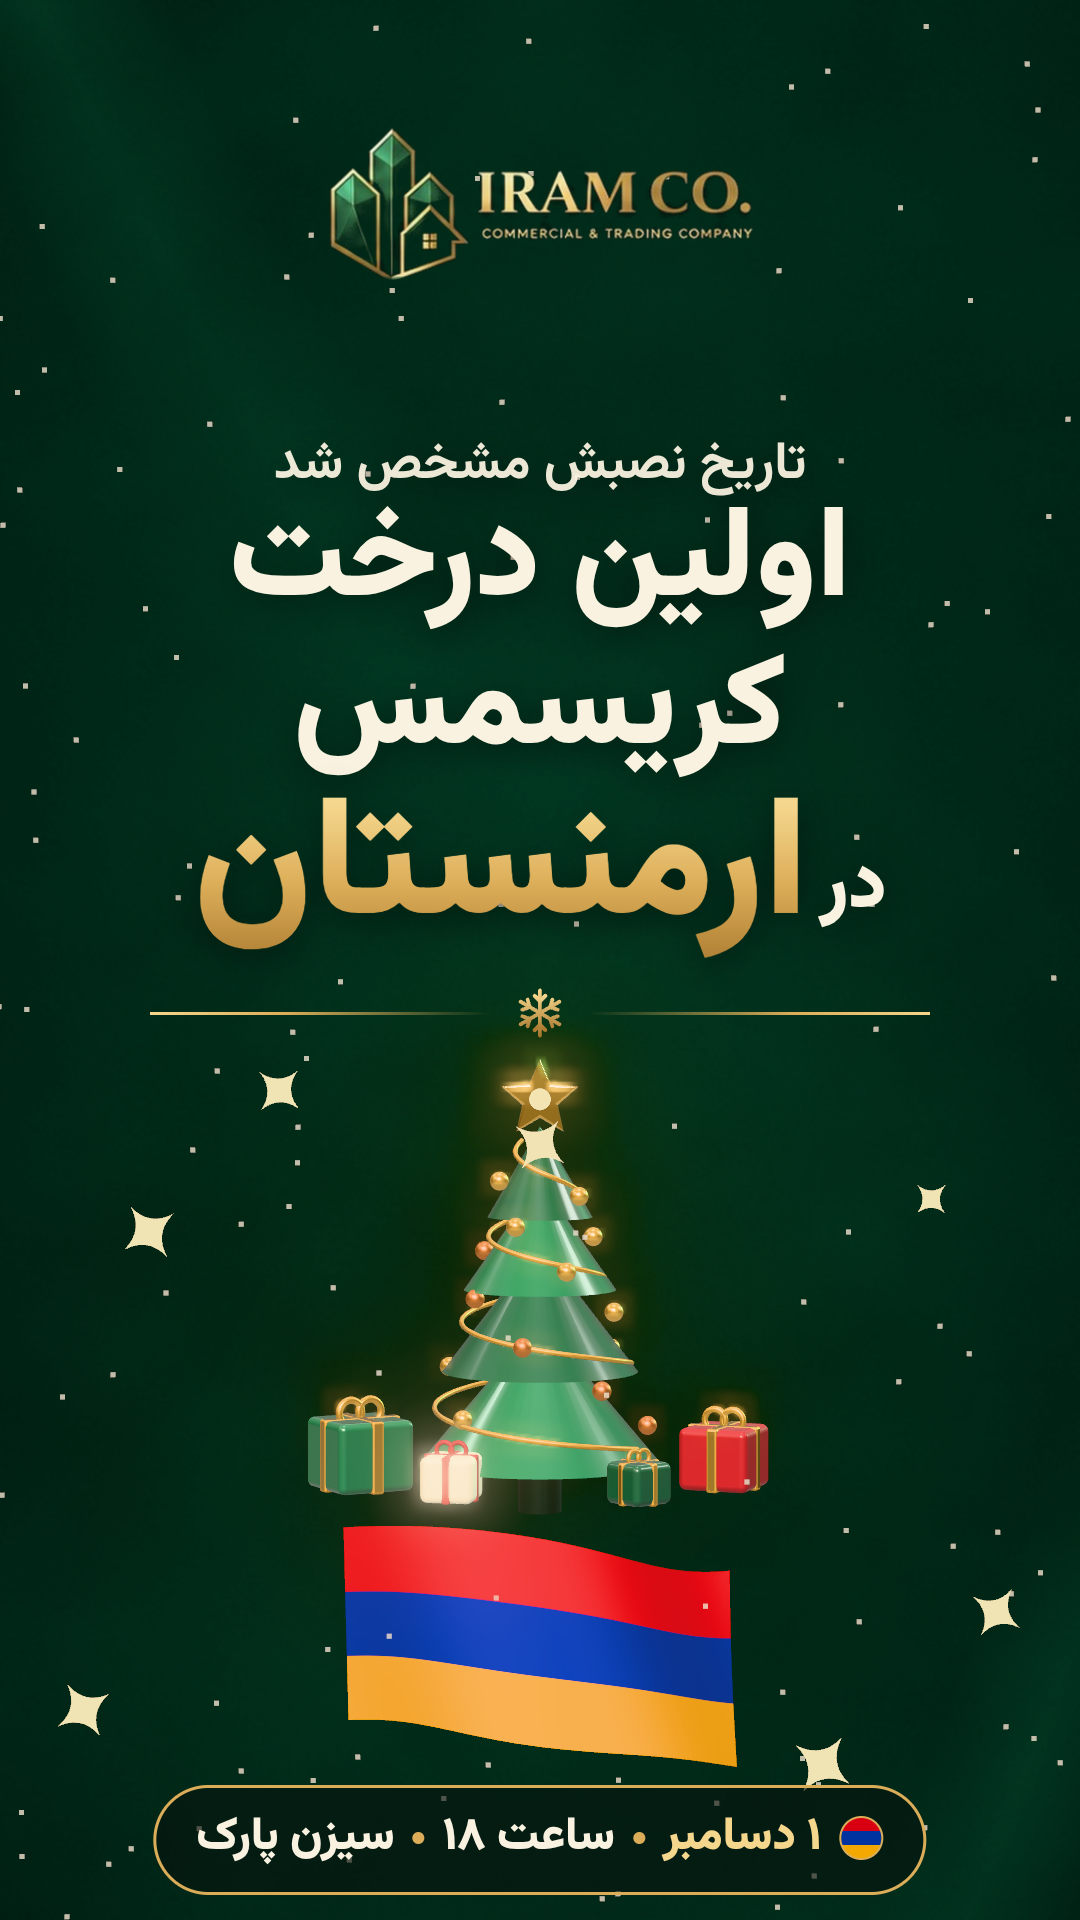
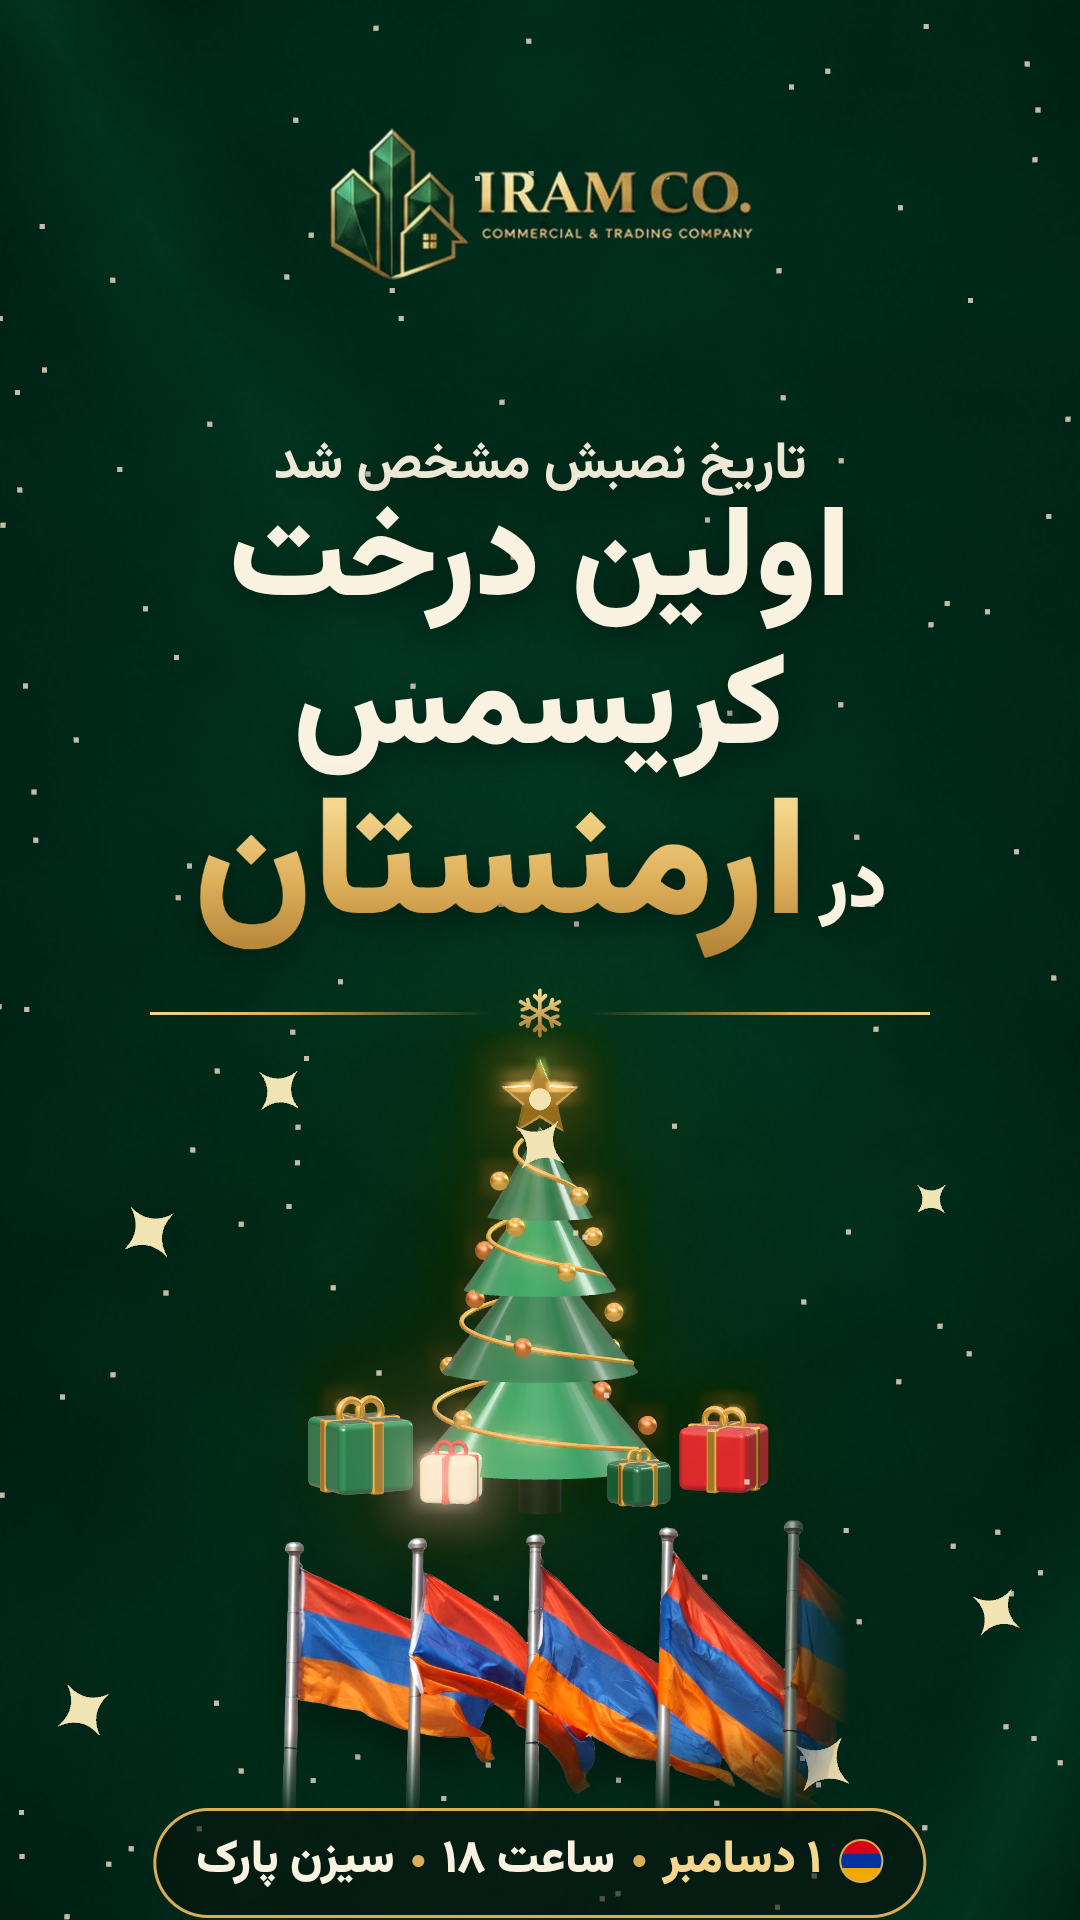
Cover: real waving Armenian flags instead of the hand-built one
Flags photo by young shanahan (Flickr, CC BY 2.0), cut out from the sky
with BiRefNet (tools/cutout.py) and placed under the tree; credited in
CREDITS.md.

Claude-Session: https://claude.ai/code/session_015u3raGFfFHqVMAMuUWfCYm

Changed region(s): [[0.1528, 0.7812, 0.8556, 1.0], [0.1222, 0.9375, 0.1528, 0.9688]]

diff --git a/yerevan-christmas/cover/cover.html b/yerevan-christmas/cover/cover.html
@@ -15,7 +15,7 @@
       #presenter { position: absolute; display: none; }
       #logo { position: absolute; left: 50%; transform: translateX(-50%); }
       #flagImg { position: absolute; left: 50%; transform: translateX(-50%); display: none; filter: drop-shadow(0 18px 26px rgba(0, 0, 0, 0.45)); }
-      .v-a #flagImg { display: block; }
+      .v-a #flagImg { display: block; top: 1512px; width: 580px; margin-left: 20px; }
       .txt { position: absolute; left: 0; right: 0; text-align: center; color: var(--ink); font-weight: 900; filter: drop-shadow(0 8px 18px rgba(0, 0, 0, 0.45)); white-space: nowrap; }
       .kick { font-weight: 700; color: var(--ink); opacity: 0.95; }
       .gold { background: var(--gold); -webkit-background-clip: text; background-clip: text; -webkit-text-fill-color: transparent; }
@@ -37,7 +37,7 @@
       .v-a #t2 { top: 636px; font-size: 128px; line-height: 1.2; }
       .v-a #t3 { top: 772px; font-size: 168px; line-height: 1.2; }
       .v-a #rule { top: 978px; }
-      .v-a #pill { top: 1785px; }
+      .v-a #pill { top: 1808px; }
 
       /* variant B: presenter pointing at the viewer */
       .v-b #presenter { display: block; left: 150px; top: 835px; width: 1010px; }

diff --git a/yerevan-christmas/tools/cutout.py b/yerevan-christmas/tools/cutout.py
@@ -1,0 +1,14 @@
+import sys, glob, numpy as np, onnxruntime as ort, cv2
+src, out, models = sys.argv[1], sys.argv[2], sys.argv[3]
+so = ort.SessionOptions(); so.intra_op_num_threads = 4
+sess = ort.InferenceSession(glob.glob(models + "/models--onnx-community--BiRefNet_lite-ONNX/snapshots/*/onnx/model.onnx")[0], so, providers=["CPUExecutionProvider"])
+img = cv2.imread(src); h, w = img.shape[:2]; rgb = cv2.cvtColor(img, cv2.COLOR_BGR2RGB).astype(np.float32) / 255
+x = (cv2.resize(rgb, (1024, 1024), interpolation=cv2.INTER_AREA) - [0.485, 0.456, 0.406]) / [0.229, 0.224, 0.225]
+a = sess.run(None, {"input_image": x.transpose(2, 0, 1)[None].astype(np.float32)})[-1][0, 0]; a = 1 / (1 + np.exp(-a))
+a = cv2.resize(a, (w, h), interpolation=cv2.INTER_CUBIC).clip(0, 1)
+a = np.clip((a - 0.08) / 0.84, 0, 1)  # firm up the edges
+ys, xs = np.where(a > 0.1); pad = 12
+y0, y1, x0, x1 = max(0, ys.min() - pad), min(h, ys.max() + pad), max(0, xs.min() - pad), min(w, xs.max() + pad)
+rgba = np.dstack([img, (a * 255).astype(np.uint8)])[y0:y1, x0:x1]
+cv2.imwrite(out, rgba); print("cut", rgba.shape)
+chk = (rgba[..., :3] * (rgba[..., 3:] / 255) + np.array([33, 64, 26]) * (1 - rgba[..., 3:] / 255)).astype(np.uint8); cv2.imwrite(out.replace(".png", "_check.jpg"), chk)

diff --git a/yerevan-christmas/CREDITS.md b/yerevan-christmas/CREDITS.md
@@ -13,6 +13,10 @@ Attribution is required by these licenses; paste this into the post caption or d
 
 Short form for the caption: Photos: ninastoessinger (CC BY-SA 2.0), UN Armenia (CC BY-SA 2.0) via Flickr.
 
+## Cover
+
+- Armenian flags: [Flag of Armenia.](https://www.flickr.com/photos/14759783@N04/13903872876) by young shanahan, [CC BY 2.0](https://creativecommons.org/licenses/by/2.0/) (cut out from the sky with BiRefNet, `tools/cutout.py`).
+
 ## Everything else
 
 - Footage and voice: the supplied clip (graded, voice cleaned and normalized).
